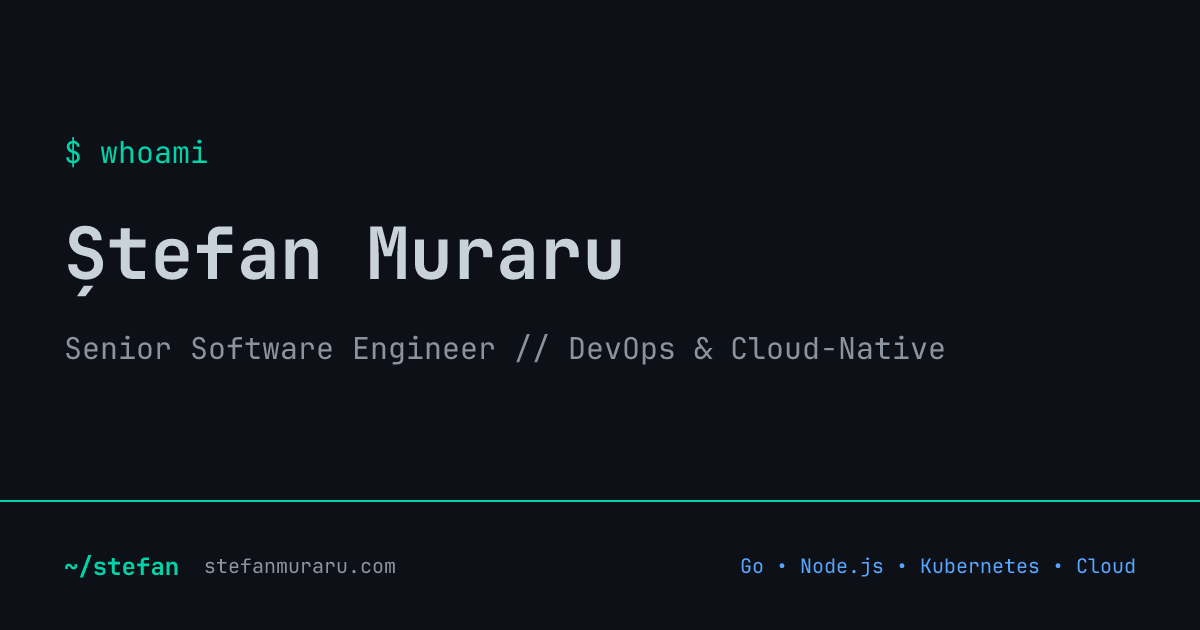
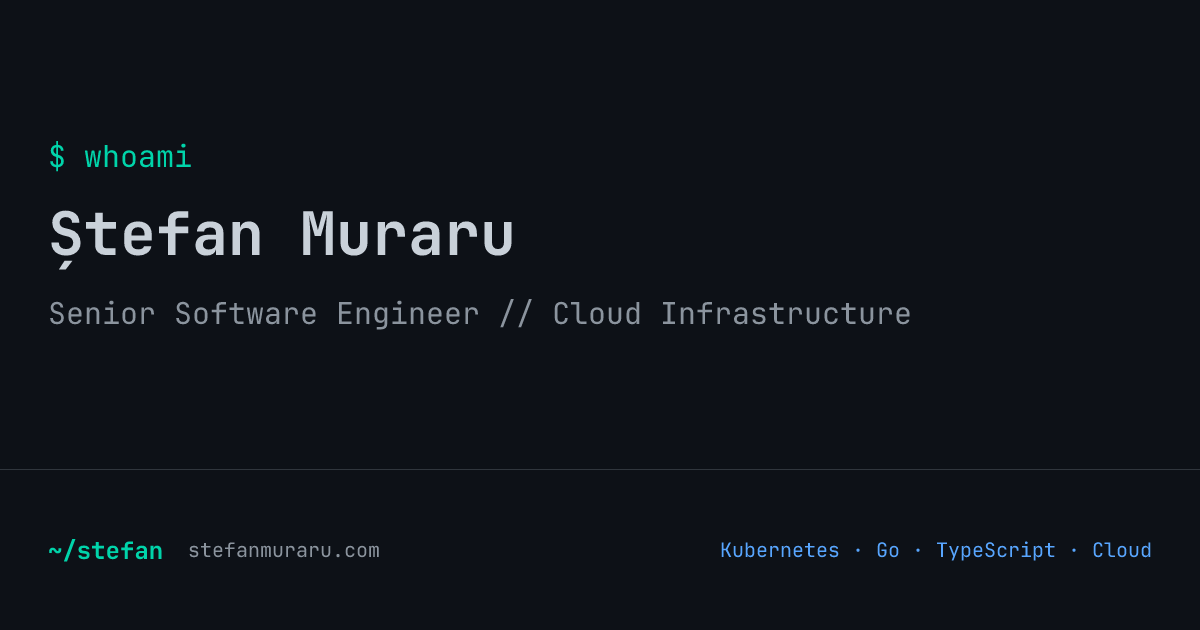
fix: Update social images

diff --git a/src/site.config.ts b/src/site.config.ts
@@ -5,7 +5,7 @@ export const siteConfig: SiteConfig = {
 	author: "Ștefan Muraru",
 	title: "Ștefan Muraru",
 	description:
-		"Senior Software Engineer — DevOps & Cloud-Native. Technical writing on infrastructure, Kubernetes, and cloud engineering.",
+		"Senior Software Engineer — Cloud Infrastructure. Technical writing on Kubernetes, platform engineering, and observability.",
 	lang: "en-GB",
 	ogLocale: "en_GB",
 	date: {
